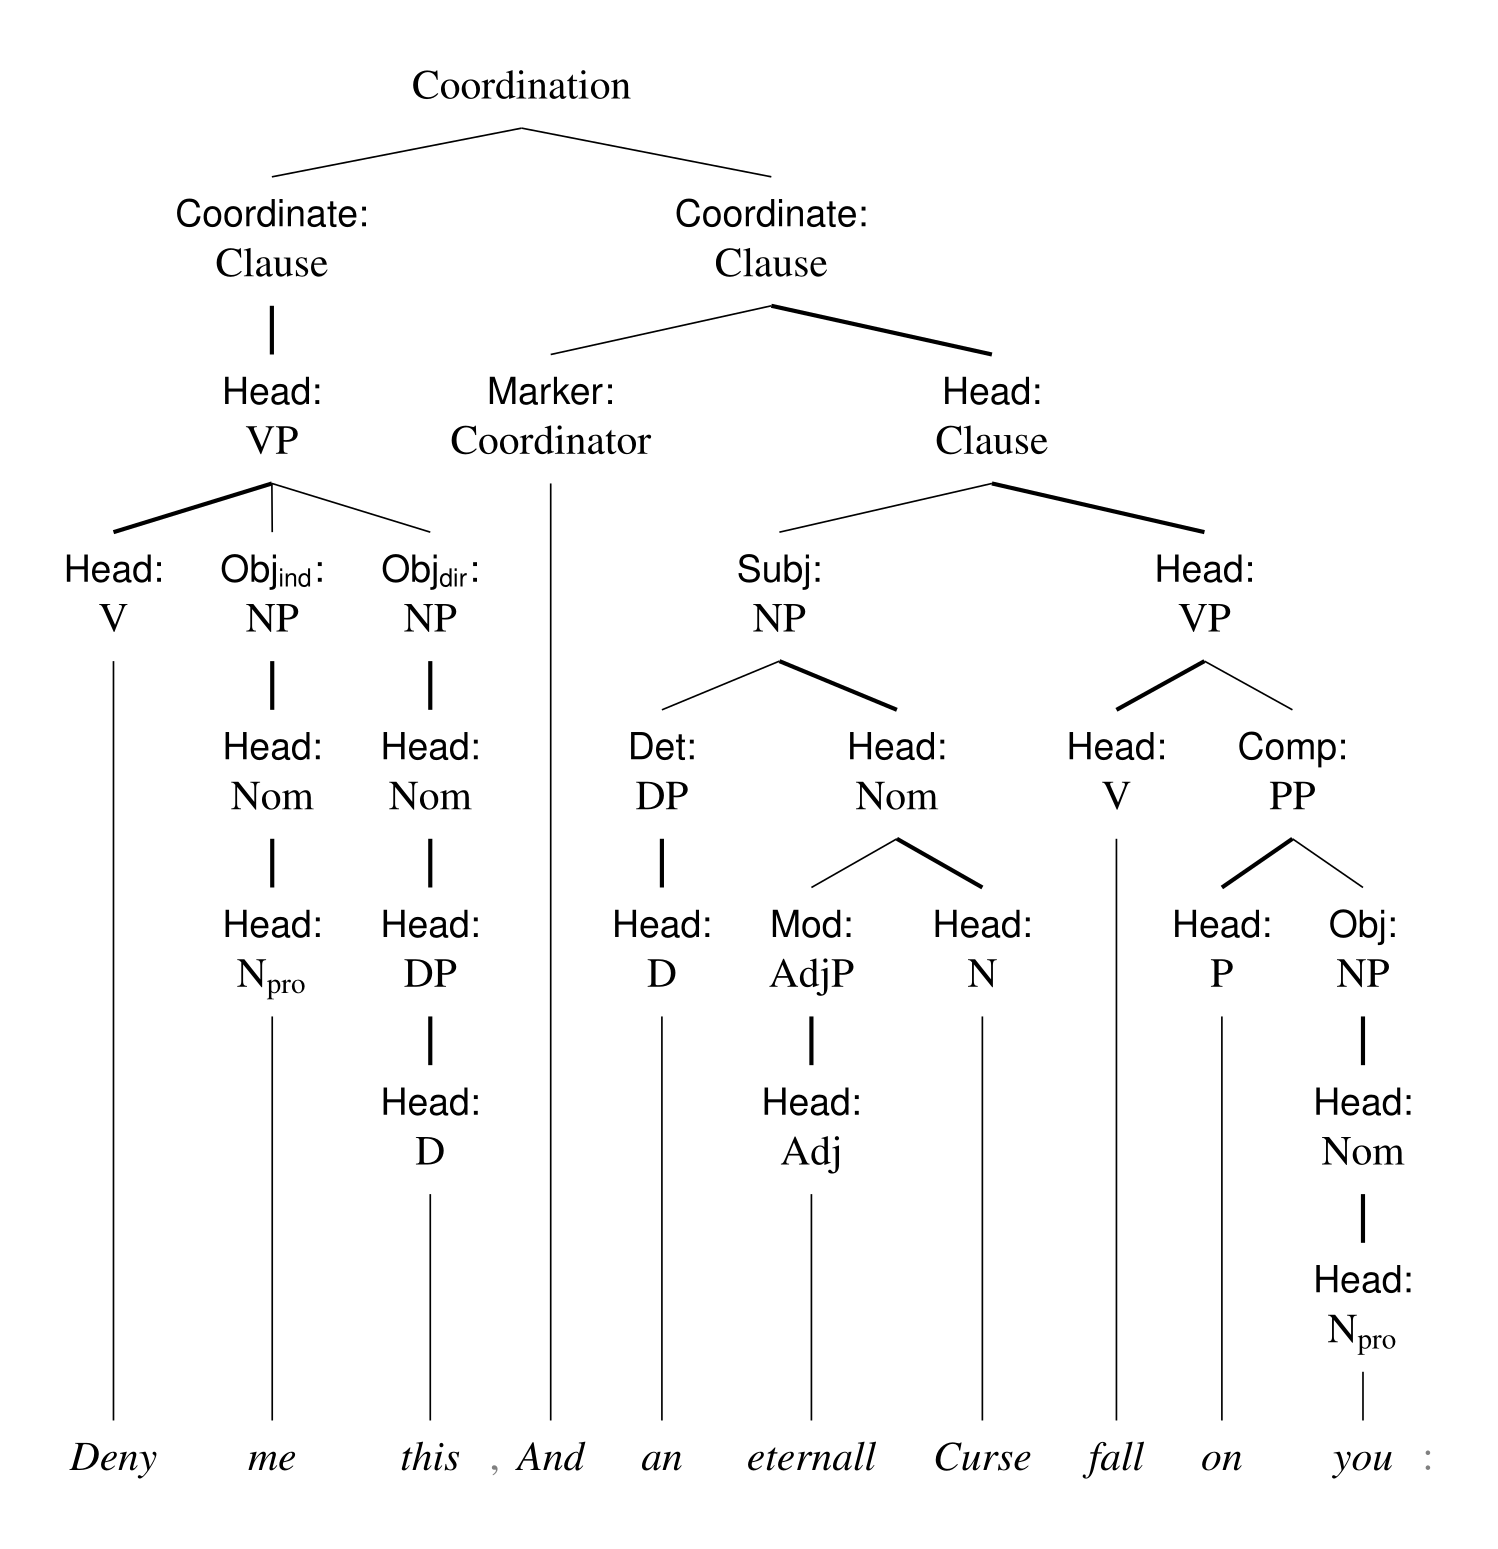
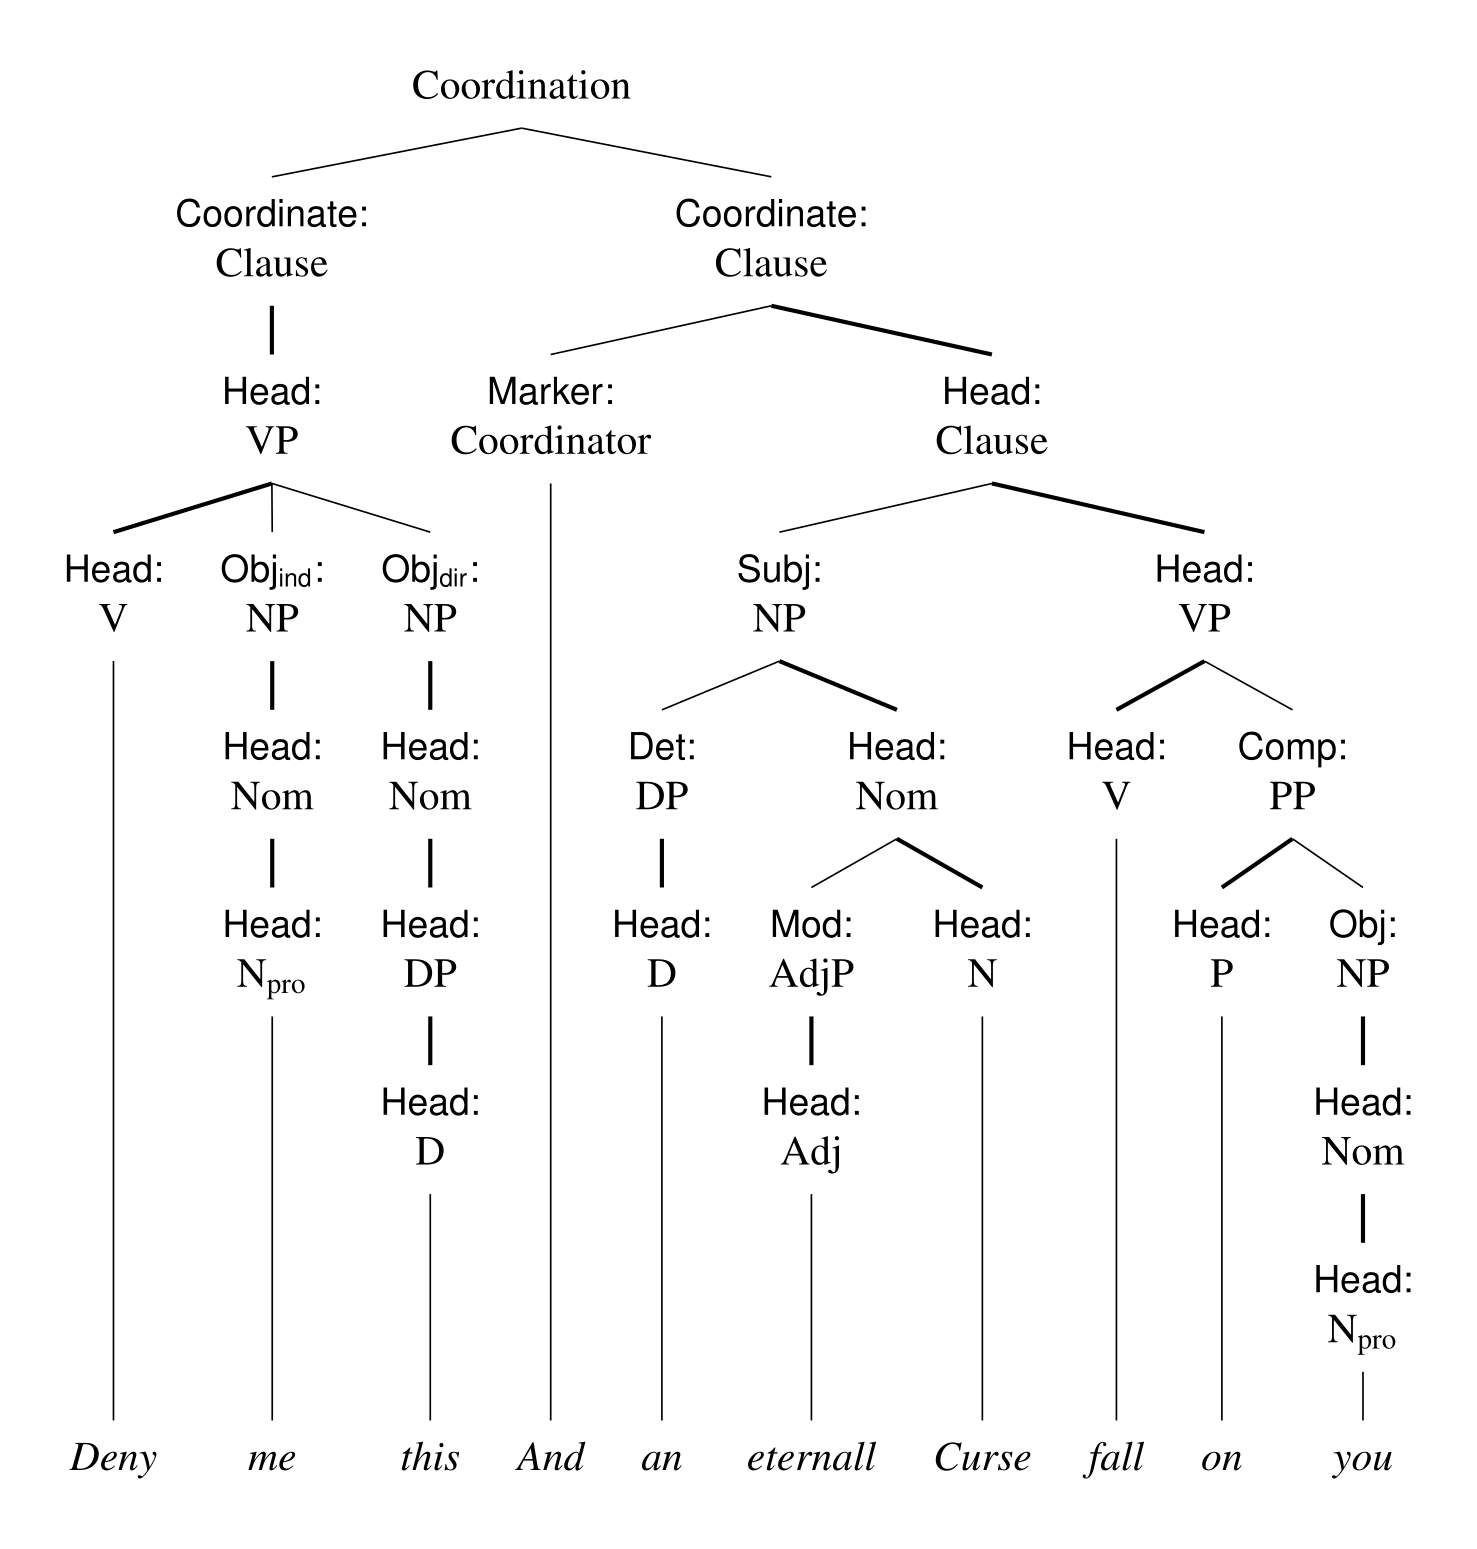
Drop punctuation from tree images; record the week's rulings
The renderer now draws trees without punctuation (punct=False in
tree2tex and bin/pair); punctuation stays in the .cgel source and the
post text. Re-rendered the five punctuated queued trees, which were
also replaced in the scheduled posts on X.

Rulings: forward and back are complements; the gunpowder tree's gaps
stand as drawn; in the Schwab ad, filthy is an Adj and "your filthy
comfortable" has an ordinary head. Notes on scheduling quote posts and
alt text on X; the 4 Nov calendar reminder.

diff --git a/vendor/cgel/tree2tex.py b/vendor/cgel/tree2tex.py
@@ -95,7 +95,7 @@ def trees2tex(trees: Iterable[cgel.Tree]) -> str:
         #s = tree.draw()
         for k,v in tree.metadata.items():
             s += f'% # {k} = {v}\n'
-        s += tree.drawtex() + '\n'
+        s += tree.drawtex(punct=False) + '\n'  # tree-a-day: no punctuation in the image (Brett, 2026-10-30)
         #break # just print one tree
         i += 1
     s += FOOTER

diff --git a/DECISIONS.md b/DECISIONS.md
@@ -36,3 +36,15 @@
 2026-10-30 — Index letters start at x in each tree and go on in order (x, y, z), as in gold; a tree with one link uses x (Brett asked why Boyle had y). Brett approved the four Macbeth trees as drawn ("otherwise good. And the other trees too"), which includes Lockes as vocative and ordinary Head for "this".
 
 2026-10-30 — Captions: not didactic. Brett: "In General, I don't want to be didactic, and mostly I'll favour just \"Syntax tree for x\"". Default caption is "Syntax tree for “…”", with at most a short second line; the week's plain captions are in queue/CAPTIONS.md, and the explanatory drafts in each post.md are now notes for Brett, not post text.
+
+2026-10-30 — Week scheduled on X by Claude in Brett's Chrome as Daily Syntax Tree (Brett: "Schedule the posts in X's composer"): six posts at 9:00 AM Eastern (Brett chose the time), plain captions with no optional second lines (Brett: "Neither"), alt text from each post.md. 3 Nov is a quote of @Dictionarycom's announcement. Verified in X's scheduled list.
+
+2026-10-30 — Spring forward: *forward* and *back* are complements (Brett: "I take forward and back to be complements"), as drawn. Schwab: Brett takes *filthy* to be Adj; Claude noted CGEL p. 584 lists bare degree modifiers like *dead*, *real*, *mighty* as adverbs; Brett's call pending.
+
+2026-10-30 — Punctuation is dropped from every tree image and kept in the post text (Brett: "the punctuation should be dropped from all the trees but kept in the tweet text"). The renderer draws with punct=False; the .cgel keeps :p. Re-rendered the five punctuated queued trees (Fire burne, Lockes, Deny, Spring forward, gunpowder); posted trees stay as posted. Brett approved the gunpowder and Spring forward trees otherwise ("Those trees look good otherwise"), so the *why* gap and *ever* stay where drawn.
+
+2026-10-30 — Scheduled posts for 31 Oct (Fire, Lockes, Deny images), 1 Nov and 5 Nov edited on X with the punctuation-free images and their alt text re-entered; the scheduled list still shows six posts at 9:00 AM.
+
+2026-10-30 — Schwab (6 Nov): *filthy* is Adj (Brett), modifying the Adj *comfortable*; Claude withdrew its claim that CGEL disallows an AdjP modifier inside an AdjP (no source; gold has *pure white*). Friday stays the fusion pair (Brett: "fusion"); the *[your filthy] comfortable* parse is noted in post.md, not used.
+
+2026-10-30 — Schwab (6 Nov): the right parse is ordinary Head (Brett: "ordinary head, record it"): *your* [*filthy comfortable*], AdjP as ordinary head of the nominal, *filthy* an AdjP modifier. Consistent with Fusion of functions revisited (no evidence of form for the modifier function); CGEL's fused modifier-head type is described as taking only the definite article (p. 417), which *your* doesn't fit. The scheduled post (both trees) is unchanged.

diff --git a/STATUS.md b/STATUS.md
@@ -1,16 +1,16 @@
 # tree-a-day status
-<!-- SUMMARY: X tree-a-day revival (Daily Syntax Tree); three posts live 2026-10-30, week of 31 Oct to 6 Nov drafted except 4 Nov · status: active · updated: 2026-10-30 -->
+<!-- SUMMARY: X tree-a-day revival (Daily Syntax Tree); three posts live 2026-10-30, week of 31 Oct to 6 Nov scheduled on X except 4 Nov · status: active · updated: 2026-10-30 -->
 
 ## Current
 
 - Pipeline works: `.cgel` source → validator → `tree2tex` → PNG (italic leaves on the bottom row, vertical fusion branch); `bin/pair` for side-by-side.
 - Posted 2026-10-30: `queue/2026-10-31-something-wicked/` as a poll (fused head vs ordinary Head).
 - Posted 2026-10-30: `queue/2026-10-30-make-it-not-so/` (Patrick Stewart tribute, quote-tweet).
-- Week of 31 Oct to 6 Nov: drafts in `queue/` for 31 Oct (four Macbeth trees), 1, 2, 3, 5 and 6 Nov. *Whoever dies with honor* posted 2026-10-30. 3 Nov: *Everyone is maxxing something* (19th Amendment dropped). Captions in `queue/CAPTIONS.md`.
-- **On 4 Nov:** draft from a live "... is too early to call" election headline (Brett: "bring this back on the day").
+- Week of 31 Oct to 6 Nov: **scheduled on X** (Daily Syntax Tree, 9:00 AM Eastern, with alt text) for 31 Oct (four Macbeth trees), 1, 2, 3 (quote of @Dictionarycom), 5 and 6 Nov; scheduled 2026-10-30, listed at x.com/compose/post/unsent/scheduled. *Whoever dies with honor* posted 2026-10-30. 3 Nov: *Everyone is maxxing something* (19th Amendment dropped). Captions in `queue/CAPTIONS.md`.
+- **On 4 Nov:** draft from a live "... is too early to call" election headline (Brett: "bring this back on the day"). Google Calendar reminder set for 8:00 AM Toronto time, with pop-ups at 7:30 and 8:00.
 
 ## Open
 
-- Account: Daily Syntax Tree (Brett, 2026-10-30); the @handle isn't recorded yet.
+- Account: Tree_a_day (@DailySyntaxTree).
 - Public at https://github.com/BrettRey/tree-a-day; drafts are committed only after Brett has reviewed them.
 - Check how the poll's option images render on the live timeline (cropping, legibility on a phone).

diff --git a/queue/2026-11-06-filthy-comfortable/post.md b/queue/2026-11-06-filthy-comfortable/post.md
@@ -29,7 +29,8 @@ The last sentence is the position of *Fusion of functions revisited* (lingbuzz/0
 - Ordinary-Head side: the validator warns once (AdjP as head of a Nom), because it checks CGEL's grammar.
 - *YOUR* is `Det: NP` with N_pro, as gold's *my*.
 
-## Rulings needed before posting
+## Rulings
 
-1. **"FILTHY": Adj or Adv.** Drawn as Adj modifying Adj, as gold's *pure white* (`ewt.cgel` line 1273). Language Log quotes the OED treating *filthy* in *filthy rich* as an adverb.
-2. **Format.** The pair with the caption above, or a second A/B poll like Halloween's.
+- **FILTHY is Adj** (Brett, 2026-10-30), modifying the Adj *COMFORTABLE*, as drawn. Nothing in CGEL rules out an AdjP modifier inside an AdjP; gold has one (*pure white*, `ewt.cgel` line 1273). CGEL's own habit is to treat such pairs as compounds (*icy-cold*, *red-hot*, p. 1658) or the first word as an adverb (*dead right*, p. 584), and the OED lists *filthy* in *filthy rich* as an adverb.
+- **The right parse is the ordinary Head tree (right)** (Brett, 2026-10-30: "ordinary head"): *your* [*filthy comfortable*], with the AdjP as ordinary head of the nominal and *filthy* an AdjP modifier. The fused modifier-head (left) is CGEL's analysis, but CGEL describes that construction ("special interpretations", abstract subtype like *the utterly impossible*) as "determined by the definite article – we couldn't even substitute a demonstrative" (p. 417), which *your* doesn't fit; and *Fusion of functions revisited* finds no evidence of form for the modifier function.
+- **Fusion pair, as scheduled** (Brett: "fusion"): the post shows both trees. The other parse, *Find [your filthy] comfortable* (object plus predicative complement, as in *I find your sofa comfortable*), is grammatically available. It's set aside on interpretation: the ad's layout groups FILTHY COMFORTABLE, the phrase follows *filthy rich*, and *your filthy* would need an understood head.

diff --git a/notes/x-platform.md b/notes/x-platform.md
@@ -12,6 +12,8 @@ Checked 2026-10-30. X changes often and its help pages lag, so re-check before r
 
 - X Pro's help page documents scheduling posts with images or video, and says nothing about polls (help.x.com/en/using-x/advanced-xpro-features).
 - Web composer, 2026-10-30: with a poll attached, the Schedule button did nothing; with the poll removed, the schedule dialog opened. So polls can't be scheduled from the web. The phone app wasn't tested.
+- Quote posts with an image can be scheduled from the web: Repost → Quote, add the image and text, then Schedule (done for 3 Nov 2026, 2026-10-30). The Repost button opens a small menu (Repost / Quote); choosing Repost reposts at once.
+- Scheduled posts keep up to four images, each with its own alt text (up to 1,000 characters, "Add descriptions" under the images). Scheduled posts are listed at x.com/compose/post/unsent/scheduled.
 
 ## API (docs.x.com, fetched 2026-10-30)
 
@@ -23,4 +25,4 @@ Checked 2026-10-30. X changes often and its help pages lag, so re-check before r
 ## What follows for automation
 
 - A plain tree post (image, caption, no link) could be scheduled in X's composer or sent through the API for $0.015.
-- Image polls and quote-tweets have to be posted by hand: the API can do neither on a self-serve plan, and the web composer won't schedule polls.
+- Image polls have to be posted by hand: the API can't attach choice images and the web composer won't schedule polls. Quote-tweets can be scheduled in the web composer, though not sent through the self-serve API.

diff --git a/CLAUDE.md b/CLAUDE.md
@@ -12,7 +12,7 @@ Brett's tree-a-day account on X, revived 2026-10-30: one CGEL-style syntax tree 
 
 ## Conventions
 
-- Rendering is CGELBank `tree2tex` output with italic, unhighlighted leaves aligned on the bottom row, and vertical long branches in fusion (`vendor/cgel/`, see `NOTICE.md`). Don't change the style without asking.
+- Rendering is CGELBank `tree2tex` output with italic, unhighlighted leaves aligned on the bottom row, no punctuation in the image (it stays in the `.cgel` and the post text), and vertical long branches in fusion (`vendor/cgel/`, see `NOTICE.md`). Don't change the style without asking.
 - Captions aren't didactic. The default is "Syntax tree for “…”", with at most a short second line for context (a source credit, a question for a pair); the explanation belongs in `post.md` for Brett, not in the post (Brett, 2026-10-30). Writing-style rules still apply: no em-dashes.
 - One deliberate departure from gold: terminals keep the source's capitalization (*Something*, not gold's lowercased sentence-initial *something*), because the tree is an image of the quoted text.
 - Category and function stay distinct (Det is the function, D the category).

diff --git a/queue/2026-11-01-spring-forward/post.md b/queue/2026-11-01-spring-forward/post.md
@@ -24,8 +24,8 @@ CGEL p. 614: "There are good grounds for putting words of this kind in the prepo
 ## Rulings
 
 - **Coordination** (Brett, 2026-10-30): two Clauses coordinated with no coordinator, as drawn (following `twitter.cgel` line 1501).
+- **Comp, not Mod**, for *forward* and *back* (Brett, 2026-10-30: "I take forward and back to be complements"), as drawn.
 
 Still open:
 
-1. **Comp or Mod for *forward*.** The draft follows gold's Comp for one-word directional PPs.
-2. **Source.** The 1971 *Congressional Record* (capital S, full stop) or NIST (lower case, which would make the first leaf *spring*).
+1. **Source.** The 1971 *Congressional Record* (capital S, full stop) or NIST (lower case, which would make the first leaf *spring*).

diff --git a/vendor/cgel/NOTICE.md b/vendor/cgel/NOTICE.md
@@ -17,3 +17,5 @@ Local changes, 2026-10-30, all in `cgel.py`:
   `before drawing tree={x+=...}` after packing, long branch diagonal). Helpers
   `_is_fused`, `_fusion_skipped_levels` and `_fusion_intermediates` factor out logic
   that upstream had inline.
+
+Local change, 2026-10-30, in `tree2tex.py`: `trees2tex` draws trees with `punct=False`, so punctuation stays in the `.cgel` source and in the post's text but not in the image.
